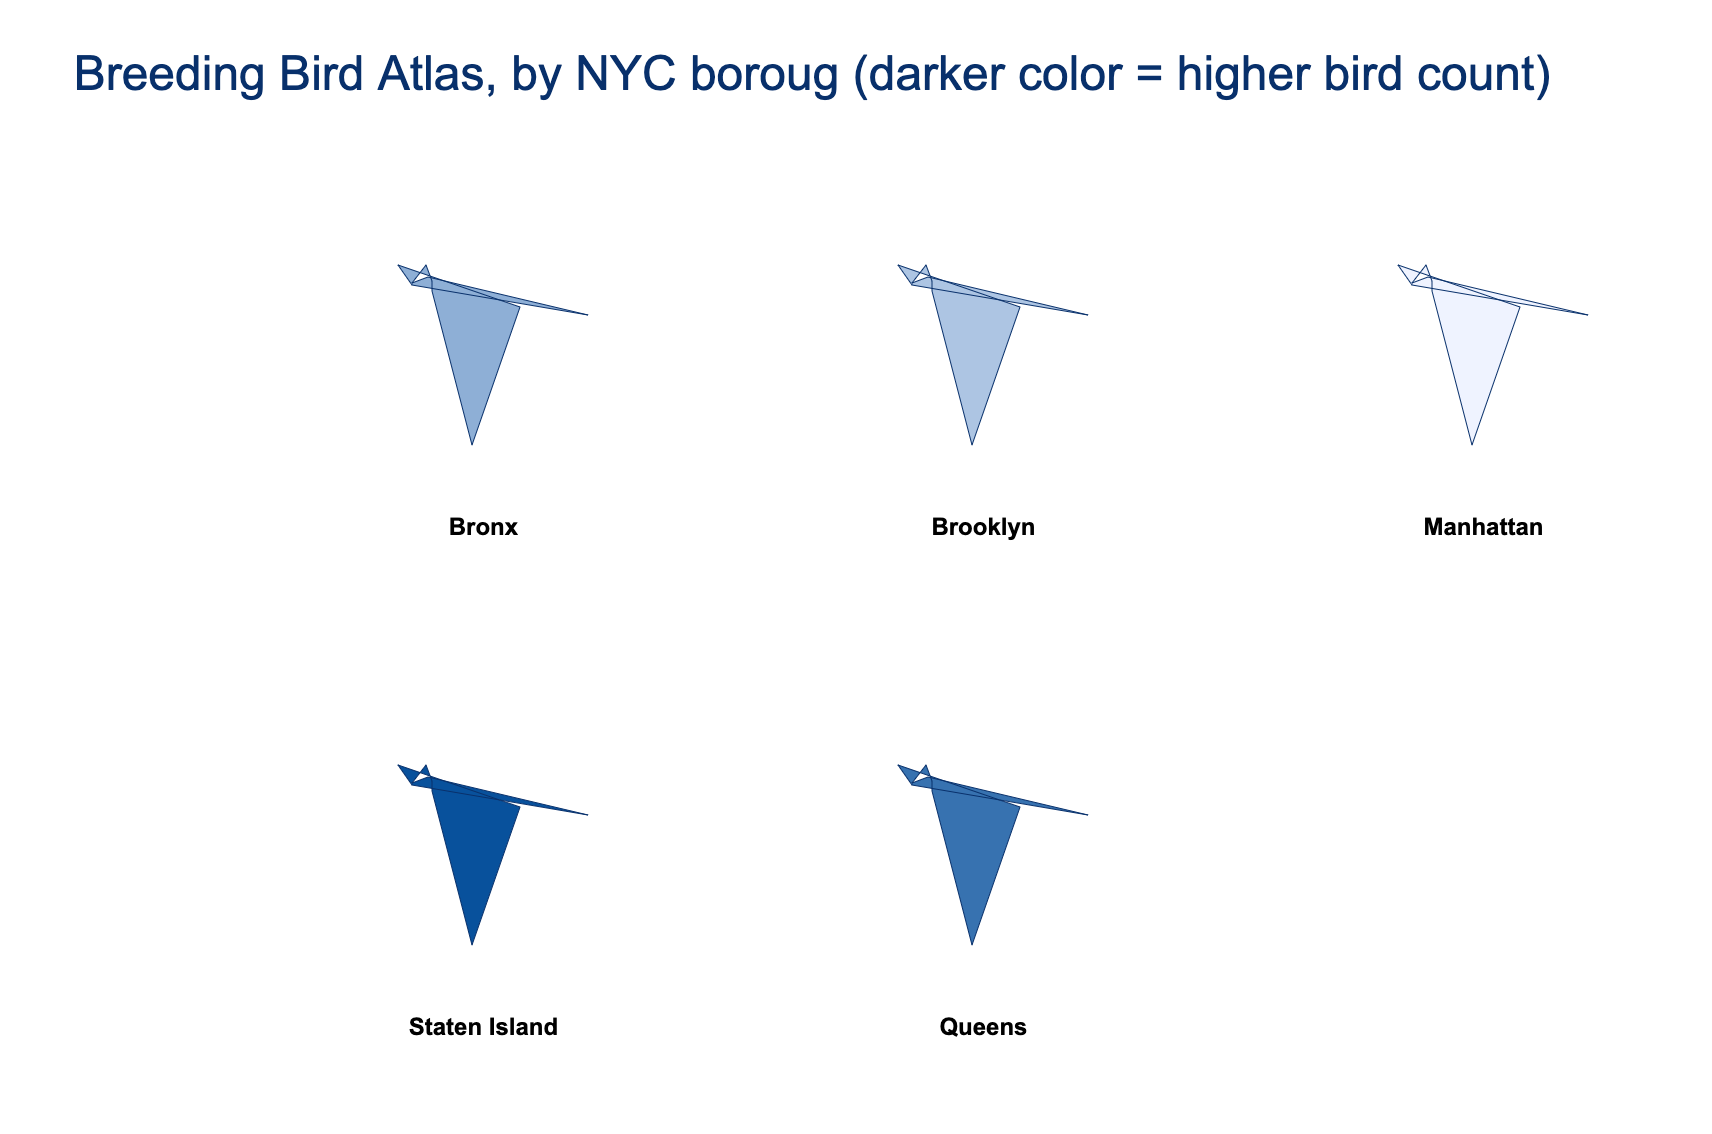
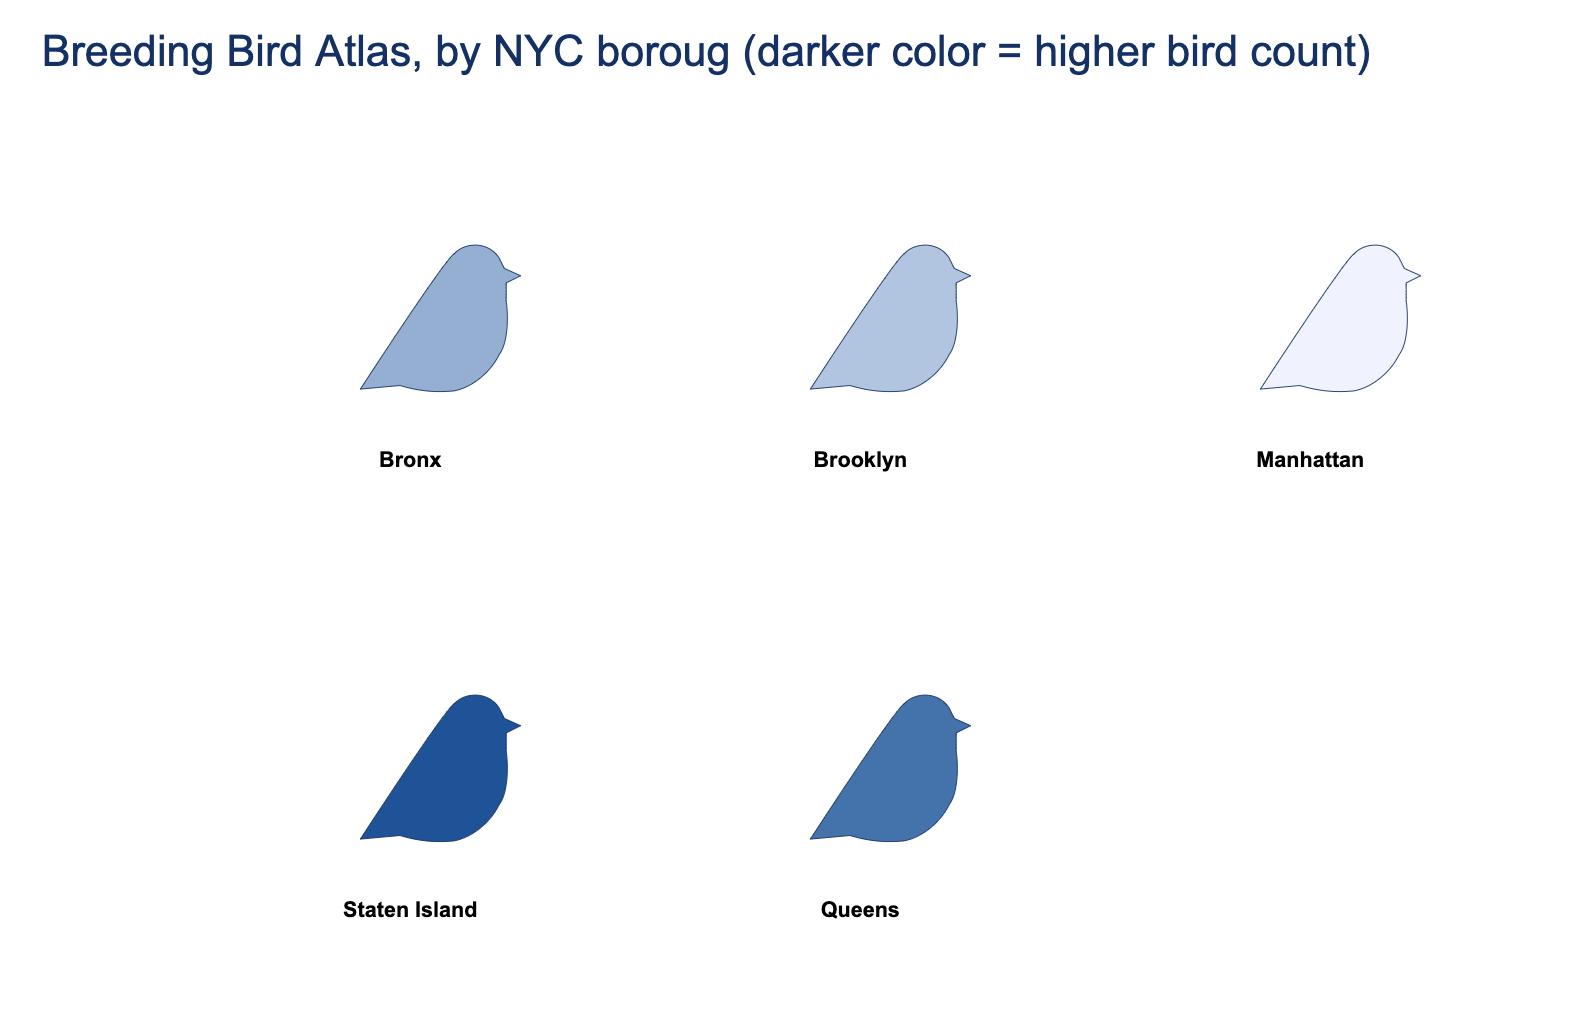
Add files via upload

diff --git a/week-4/README.md b/week-4/README.md
@@ -6,7 +6,7 @@ Diane Ferrera, INFO-616
 -----------------------
 
 The attached visualizations were created as assignments for INFO-616, Programming Interactive Visualization.
-I generated the SVG bird in JavaScript.  I then attempted to append data to the bird, this venture was less sucessful, as I could not get the bird shape to render properly within the rest of my code.
+I generated the SVG bird in JavaScript.  I then attached data to the bird, to display bird counts using a color scale.
 
 
 Screenshot of SVG Bird here:
